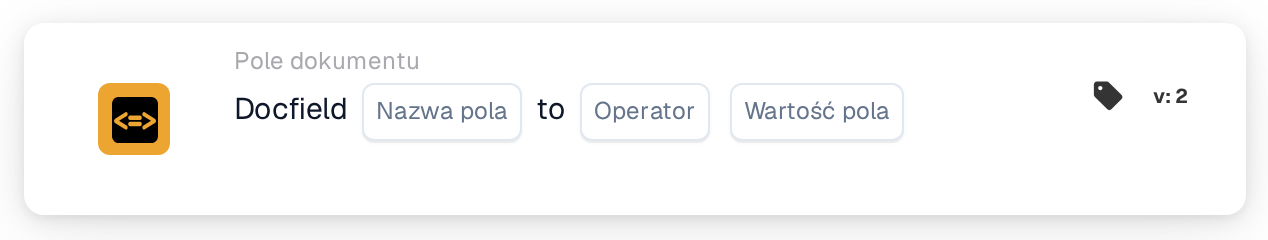
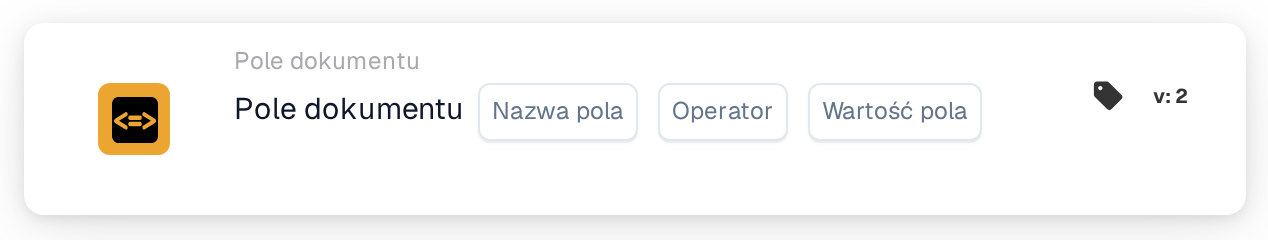
[Documentation_Workflow_Cards] [DRFS-881] document new docfield operators is one of and regex

diff --git a/public_docs/administration-and-setup/workflow/and/document-field/docfield-is.md b/public_docs/administration-and-setup/workflow/and/document-field/docfield-is.md
@@ -28,39 +28,94 @@ Na przykład drugie zatwierdzenie dla dużych faktur: Całkowita kwota większa 
 
 ## **Cel:**
 
-Ta karta przepływu pracy służy do automatyzacji akcji poprzez porównanie wartości określonego pola dokumentu z wartością referencyjną lub warunkiem. Zapewnia dynamiczne i dokładne podejmowanie decyzji w przepływach pracy na podstawie walidacji danych dokumentu.
+Ta karta porównuje jedno pole dokumentu z wartością, którą wpisujesz na karcie. Użyj jej, aby kierować dokumenty różnymi ścieżkami w zależności od wartości pola, na przykład drugie zatwierdzenie dla dużych faktur albo osobna ścieżka dla kilku dostawców.
+
+Karta brzmi: **Pole dokumentu** [Nazwa pola] [Operator] [Field Value].
 
 ## **Komponenty karty:**
 
 1. **Nazwa pola**
-   * **Opis:** Określa nazwę pola dokumentu, które ma być oceniane.
-   * **Szczegóły:** Musi to odpowiadać dokładnemu identyfikatorowi pola w dokumencie.
-2. **Operatorzy**
-   * **Opis:** Definiuje typ porównania, który ma być wykonany między wartością pola a wartością referencyjną.
-   * **Opcje:**
-     * **Równa się (=):** Sprawdza, czy wartość pola odpowiada wartości referencyjnej.
-     * **Nie równa się (≠):** Zapewnia, że wartość pola różni się od wartości referencyjnej.
-     * **Większy niż (>):** Potwierdza, że wartość pola jest większa niż wartość referencyjna.
-     * **Większe lub równe (≥):** Weryfikuje, że wartość pola jest równa lub większa niż wartość referencyjna.
-     * **Mniejszy niż (<):** Sprawdza, czy wartość pola jest mniejsza niż wartość referencyjna.
-     * **Mniejszy lub równy (≤):** Zapewnia, że wartość pola jest mniejsza lub równa wartości referencyjnej.
+   * Pole dokumentu, które ma zostać sprawdzone, wybierane spośród pól typu dokumentu.
+2. **Operator**
+   * Sposób porównania wartości pola z **Field Value**. To, które operatory mają sens, zależy od typu pola, zobacz **Operatory** poniżej.
+3. **Field Value**
+   * Wartość, z którą następuje porównanie. W zależności od operatora jest to pojedyncza wartość, lista rozdzielona przecinkami lub wyrażenie regularne.
 
-## **Funkcjonalność:**
+## **Operatory:**
 
-* **Ocena warunku:** System sprawdza, czy wartość pola dokumentu, w odniesieniu do powiązanej z nim kolumny, spełnia warunek porównania określony przez operator i wartość referencyjną.
-* **Wykonanie akcji:**
-  * **Warunek prawdziwy:**\
-    Jeśli wartość pola dokumentu spełnia określony warunek (np. równa się wartości referencyjnej), system wyzwala powiązane akcje. Mogą one obejmować aktualizację rekordów, kontynuowanie przepływu pracy lub generowanie powiadomień.
-  * **Warunek fałszywy:**\
-    Jeśli wartość pola dokumentu nie spełnia określonego warunku, wykonywane są alternatywne akcje lub żadne, na podstawie konfiguracji przepływu pracy.
+| Operator | Spełniony, gdy | Typy pól |
+| --- | --- | --- |
+| **Równa się** (=) | wartość pola jest równa Field Value | tekst, liczba, kwota, data |
+| **Nie równe** (≠) | wartość pola różni się od Field Value | tekst, liczba, kwota, data |
+| **Większy niż** (>) | wartość pola jest większa niż Field Value | liczba, kwota, data |
+| **Większy lub równy** (≥) | wartość pola jest większa lub równa Field Value | liczba, kwota, data |
+| **Mniej niż** (<) | wartość pola jest mniejsza niż Field Value | liczba, kwota, data |
+| **Mniej lub Równe** (≤) | wartość pola jest mniejsza lub równa Field Value | liczba, kwota, data |
+| **Jest jednym z** | wartość pola jest równa jednemu elementowi listy rozdzielonej przecinkami | tekst |
+| **Nie jest żadnym z** | wartość pola nie jest równa żadnemu elementowi listy | tekst |
+| **Pasuje do regex** | wyrażenie regularne zostaje znalezione w wartości pola | tekst, liczba, kwota, data |
+| **Nie pasuje do regex** | wyrażenie regularne nie zostaje znalezione w wartości pola | tekst, liczba, kwota, data |
+
+Pola logiczne (pola wyboru) nie są obsługiwane przez tę kartę. Do nich użyj karty **Pole wyboru jest zaznaczone**.
+
+### Równa się i Nie równe w polach tekstowych
+
+Tekst jest porównywany bez uwzględniania wielkości liter, a spacja jest traktowana tak samo jak podkreślenie: `Acme Freight` jest równe `acme_freight`. Spacje na początku i na końcu są ignorowane.
+
+### Jest jednym z i Nie jest żadnym z
+
+Użyj tych operatorów, aby sprawdzić pole tekstowe jednocześnie względem kilku wartości, na przykład listy identyfikatorów dostawców.
+
+* Wpisz wartości jako listę rozdzieloną przecinkami: `40321,40322,40388`.
+* Wartość pola musi być dokładnie równa jednemu elementowi. Wartość częściowa nie jest dopasowaniem: `4032` nie należy do `40321,40322,40388`, podobnie jak dłuższa wartość, taka jak `403210`.
+* Wielkość liter nie ma znaczenia, a spacja jest traktowana tak samo jak podkreślenie. Spacje wokół elementów są ignorowane, a puste elementy, takie jak ten w `a,,b`, są pomijane.
+* Aby użyć przecinka wewnątrz wartości, zapisz go jako `\,`. `Acme Freight\, LLC,Riverside Supply` to lista dwóch elementów: `Acme Freight, LLC` i `Riverside Supply`.
+* Pusta wartość pola nie należy do żadnej listy. **Jest jednym z** nie jest wtedy spełniony, a **Nie jest żadnym z** jest spełniony.
+* Te operatory działają tylko w polach tekstowych. W polu liczbowym, kwotowym lub z datą albo z listą, która nie ma żadnych elementów (na przykład same przecinki), karta kończy się błędem.
+
+### Pasuje do regex i Nie pasuje do regex
+
+Użyj tych operatorów, gdy decyduje wzorzec, na przykład „zaczyna się od” albo „składa się tylko z cyfr”.
+
+* **Field Value** to wyrażenie regularne w składni Pythona. Jest wyszukiwane w dowolnym miejscu wartości pola: `Freight` pasuje do `Acme Freight, LLC`.
+* Użyj `^` i `$`, aby sprawdzić całą wartość: `^33` oznacza „zaczyna się od 33”, a `^(40321|40322|40388)$` oznacza „dokładnie jedna z tych wartości”.
+* Wzorzec uwzględnia wielkość liter. Rozpocznij go od `(?i)`, aby ją ignorować: `(?i)freight` również pasuje do `Acme Freight, LLC`.
+* `^` i `$` odnoszą się do całej wartości pola. Rozpocznij wzorzec od `(?m)`, aby stosować je do każdego wiersza wartości składającej się z kilku wierszy.
+* Wzorzec jest używany dokładnie tak, jak go wpiszesz. Nie jest przycinany, a wielkość liter zostaje zachowana, więc `\D` (dowolny znak, który nie jest cyfrą) zachowuje swoje znaczenie, a wzorzec składający się z jednej spacji wyszukuje spację.
+* Znaki o specjalnym znaczeniu w wyrażeniach regularnych trzeba poprzedzić znakiem ucieczki, aby były dopasowywane dosłownie: `\(copy\)` pasuje do tekstu `(copy)`, natomiast `(copy)` to grupa, która znajduje słowo `copy`.
+* Liczby, kwoty i daty są dopasowywane jako tekst, w postaci, w jakiej są zapisane: kwota 997.60 pasuje do `^997\.60$`.
+* Pusta wartość pola jest dopasowywana jako pusty tekst, więc pasuje do niej `^$`.
+* Niepoprawny wzorzec, na przykład `(20` z brakującym nawiasem, kończy kartę błędem. To samo dzieje się, gdy wzorzec działa na wartości zbyt długo (ponad 0,05 sekundy), co zdarza się tylko przy źle zbudowanych wzorcach, takich jak `(a|aa)+$`. W obu przypadkach karta nie jest ani spełniona, ani niespełniona, więc **Nie pasuje do regex** nigdy nie przechodzi z powodu uszkodzonego wzorca.
+
+## **Jak działa karta:**
+
+* **Pola nie ma w dokumencie:** jeśli dokument nie ma pola o wybranej nazwie, karta zatrzymuje się i zgłasza, że pole nie zostało znalezione, niezależnie od operatora.
+* **Warunek spełniony:** Workflow jest kontynuowany następną kartą (w Advanced Workflow przez wyjście sukcesu).
+* **Warunek niespełniony:** Workflow zatrzymuje się na tej karcie (w Advanced Workflow wybiera wyjście dla niespełnionego warunku).
+* **Błąd:** operator niepasujący do typu pola, brakująca Field Value, pusta lista lub nieużyteczny wzorzec kończą kartę błędem. Log karty pokazuje przyczynę.
 
 ## **Konfiguracja:**
 
-* Użytkownik wybiera nazwę pola odpowiedniego dokumentu i wybiera operator z menu rozwijanego. Następnie użytkownik określa wartość pola referencyjnego, aby zakończyć konfigurację.
+Wybierz pole w **Nazwa pola**, operator w **Operator** i wpisz wartość w **Field Value**. W przypadku liczb i kwot wpisz wartość bez symbolu waluty i z kropką dziesiętną, na przykład `1000.50`.
+
+Aby wypróbować konfigurację bez czekania na dokument, otwórz menu karty w Workflow Builder, wybierz **Testuj kartę**, wskaż dokument i wybierz **Testuj na dokumencie**. Log karty pokazuje wartość pola, operator i wynik.
+
+## **Przykłady:**
+
+| Cel | Nazwa pola | Operator | Field Value | Wartość pola w dokumencie | Wynik |
+| --- | --- | --- | --- | --- | --- |
+| Drugie zatwierdzenie dla dużych faktur | Całkowita kwota | Większy niż | `10000` | 12500.00 | spełniony |
+| Osobna ścieżka dla kilku dostawców | ID dostawcy | Jest jednym z | `40321,40322,40388` | 40322 | spełniony |
+| | | | | 4032 | niespełniony |
+| Pominięcie dostawcy z przecinkiem w nazwie | Nazwa dostawcy | Nie jest żadnym z | `Acme Freight\, LLC` | Acme Freight, LLC | niespełniony |
+| Numery zamówień zaczynające się od 33 | Numer zamówienia | Pasuje do regex | `^33` | 33012 | spełniony |
+| | | | | 13301 | niespełniony |
+| Referencja zawierająca litery | Referencja | Pasuje do regex | `\D` | AB-1204 | spełniony |
+| Kopie faktur | Numer faktury | Nie pasuje do regex | `\(copy\)` | INV-1204 (copy) | niespełniony |
 
 ## **Podsumowanie:**
 
-Karta przepływu pracy "DocField Comparison Validation" jest niezawodnym narzędziem do dynamicznego przetwarzania dokumentów. Automatyzując akcje na podstawie porównań pól, karta ta usprawnia przepływy pracy, zwiększa dokładność i wspiera podejmowanie decyzji opartych na danych.
+Karta sprawdza pojedyncze pole dokumentu względem wartości, listy lub wzorca. Użyj **Jest jednym z** dla stałych list wartości, a **Pasuje do regex** dla wzorców, takich jak prefiksy lub formaty.
 
 <!-- workflow-card-practical-example-20261021 -->
 

diff --git a/public_docs/administration-and-setup/workflow/masterclass/field-conditions.md b/public_docs/administration-and-setup/workflow/masterclass/field-conditions.md
@@ -62,7 +62,7 @@ Wartość `"1000.01"` w polu AMOUNT to nie to samo co te same znaki w polu tekst
 
 ## Karty i przykładowe parametry
 
-Te wartości opisują parametry pojedynczych kart, a nie kompletny workflow do importu. Zastąp YOUR\_\* własnymi wyborami testowymi. Ukrytym identyfikatorem wywołującego zarządza projektant. Katalog: Dev, DocFlow 2.10.38, 21 października 2026; dostępne wersje i uprawnienia sprawdź we własnej organizacji.
+Te wartości opisują parametry pojedynczych kart, a nie kompletny Workflow do importu. Zastąp YOUR\_\* własnymi wyborami testowymi. Ukrytym identyfikatorem wywołującego zarządza projektant. Katalog: Dev, DocFlow 2.10.38, 21 października 2026; dostępne wersje i uprawnienia sprawdź we własnej organizacji.
 
 ### `condition_docfield_status` · v2
 
@@ -79,7 +79,7 @@ Tożsamość: `1c35a5a0-1592-446c-9a61-6abb14d27450`
 
 | Parametr | Typ / opcje | Przykład |
 | --- | --- | --- |
-| `operator` | `eq / neq / gt / ge / lt / le` | `"gt"` |
+| `operator` | `eq / neq / gt / ge / lt / le / cont / not_cont / matches_regex / not_matches_regex` | `"gt"` |
 | `field_name` | `field_name:str` | `"total_amount"` |
 | `field_value` | `field_value:str` | `"1000"` |
 
